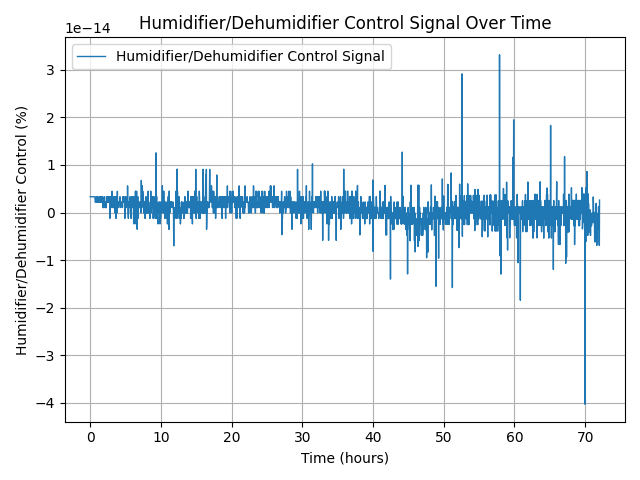
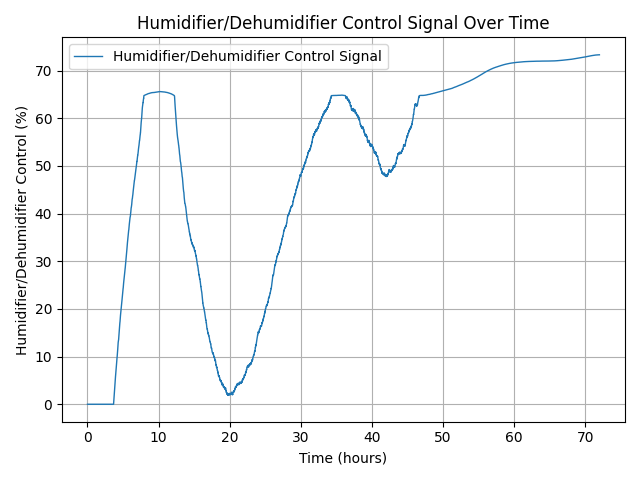
final run before preliminary results

diff --git a/environment_simulator.py b/environment_simulator.py
@@ -41,7 +41,7 @@ def calc_new_temp_and_hum(temp, humidity, ac_heater_control, humidifier_control,
     # Fix: Proper humidity calculation (convert step_seconds to hours)
     step_hours = step_seconds / 3600  # Convert seconds to hours
     humidity_change = (humidifier_control / 100) * humidifier_max_change * step_hours
-    humidity_change += (humidity - splines["humidity"](hour)) * 0.01 * step_hours
+    humidity_change += (humidity - splines["humidity"](hour)) * 0.1 * step_hours
     #print('humidity', humidity, 'humidifier_control', humidifier_control, 'humidity_change', humidity_change, 'step_seconds', step_seconds, 'humidifier_max_change', humidifier_max_change)
     env_outputs = {"temperature": temp + temp_change, "humidity": humidity + humidity_change, "outdoor_temperature": outdoor_temp}
     percent_noise = 0.05 / 100  # 0.05% noise
